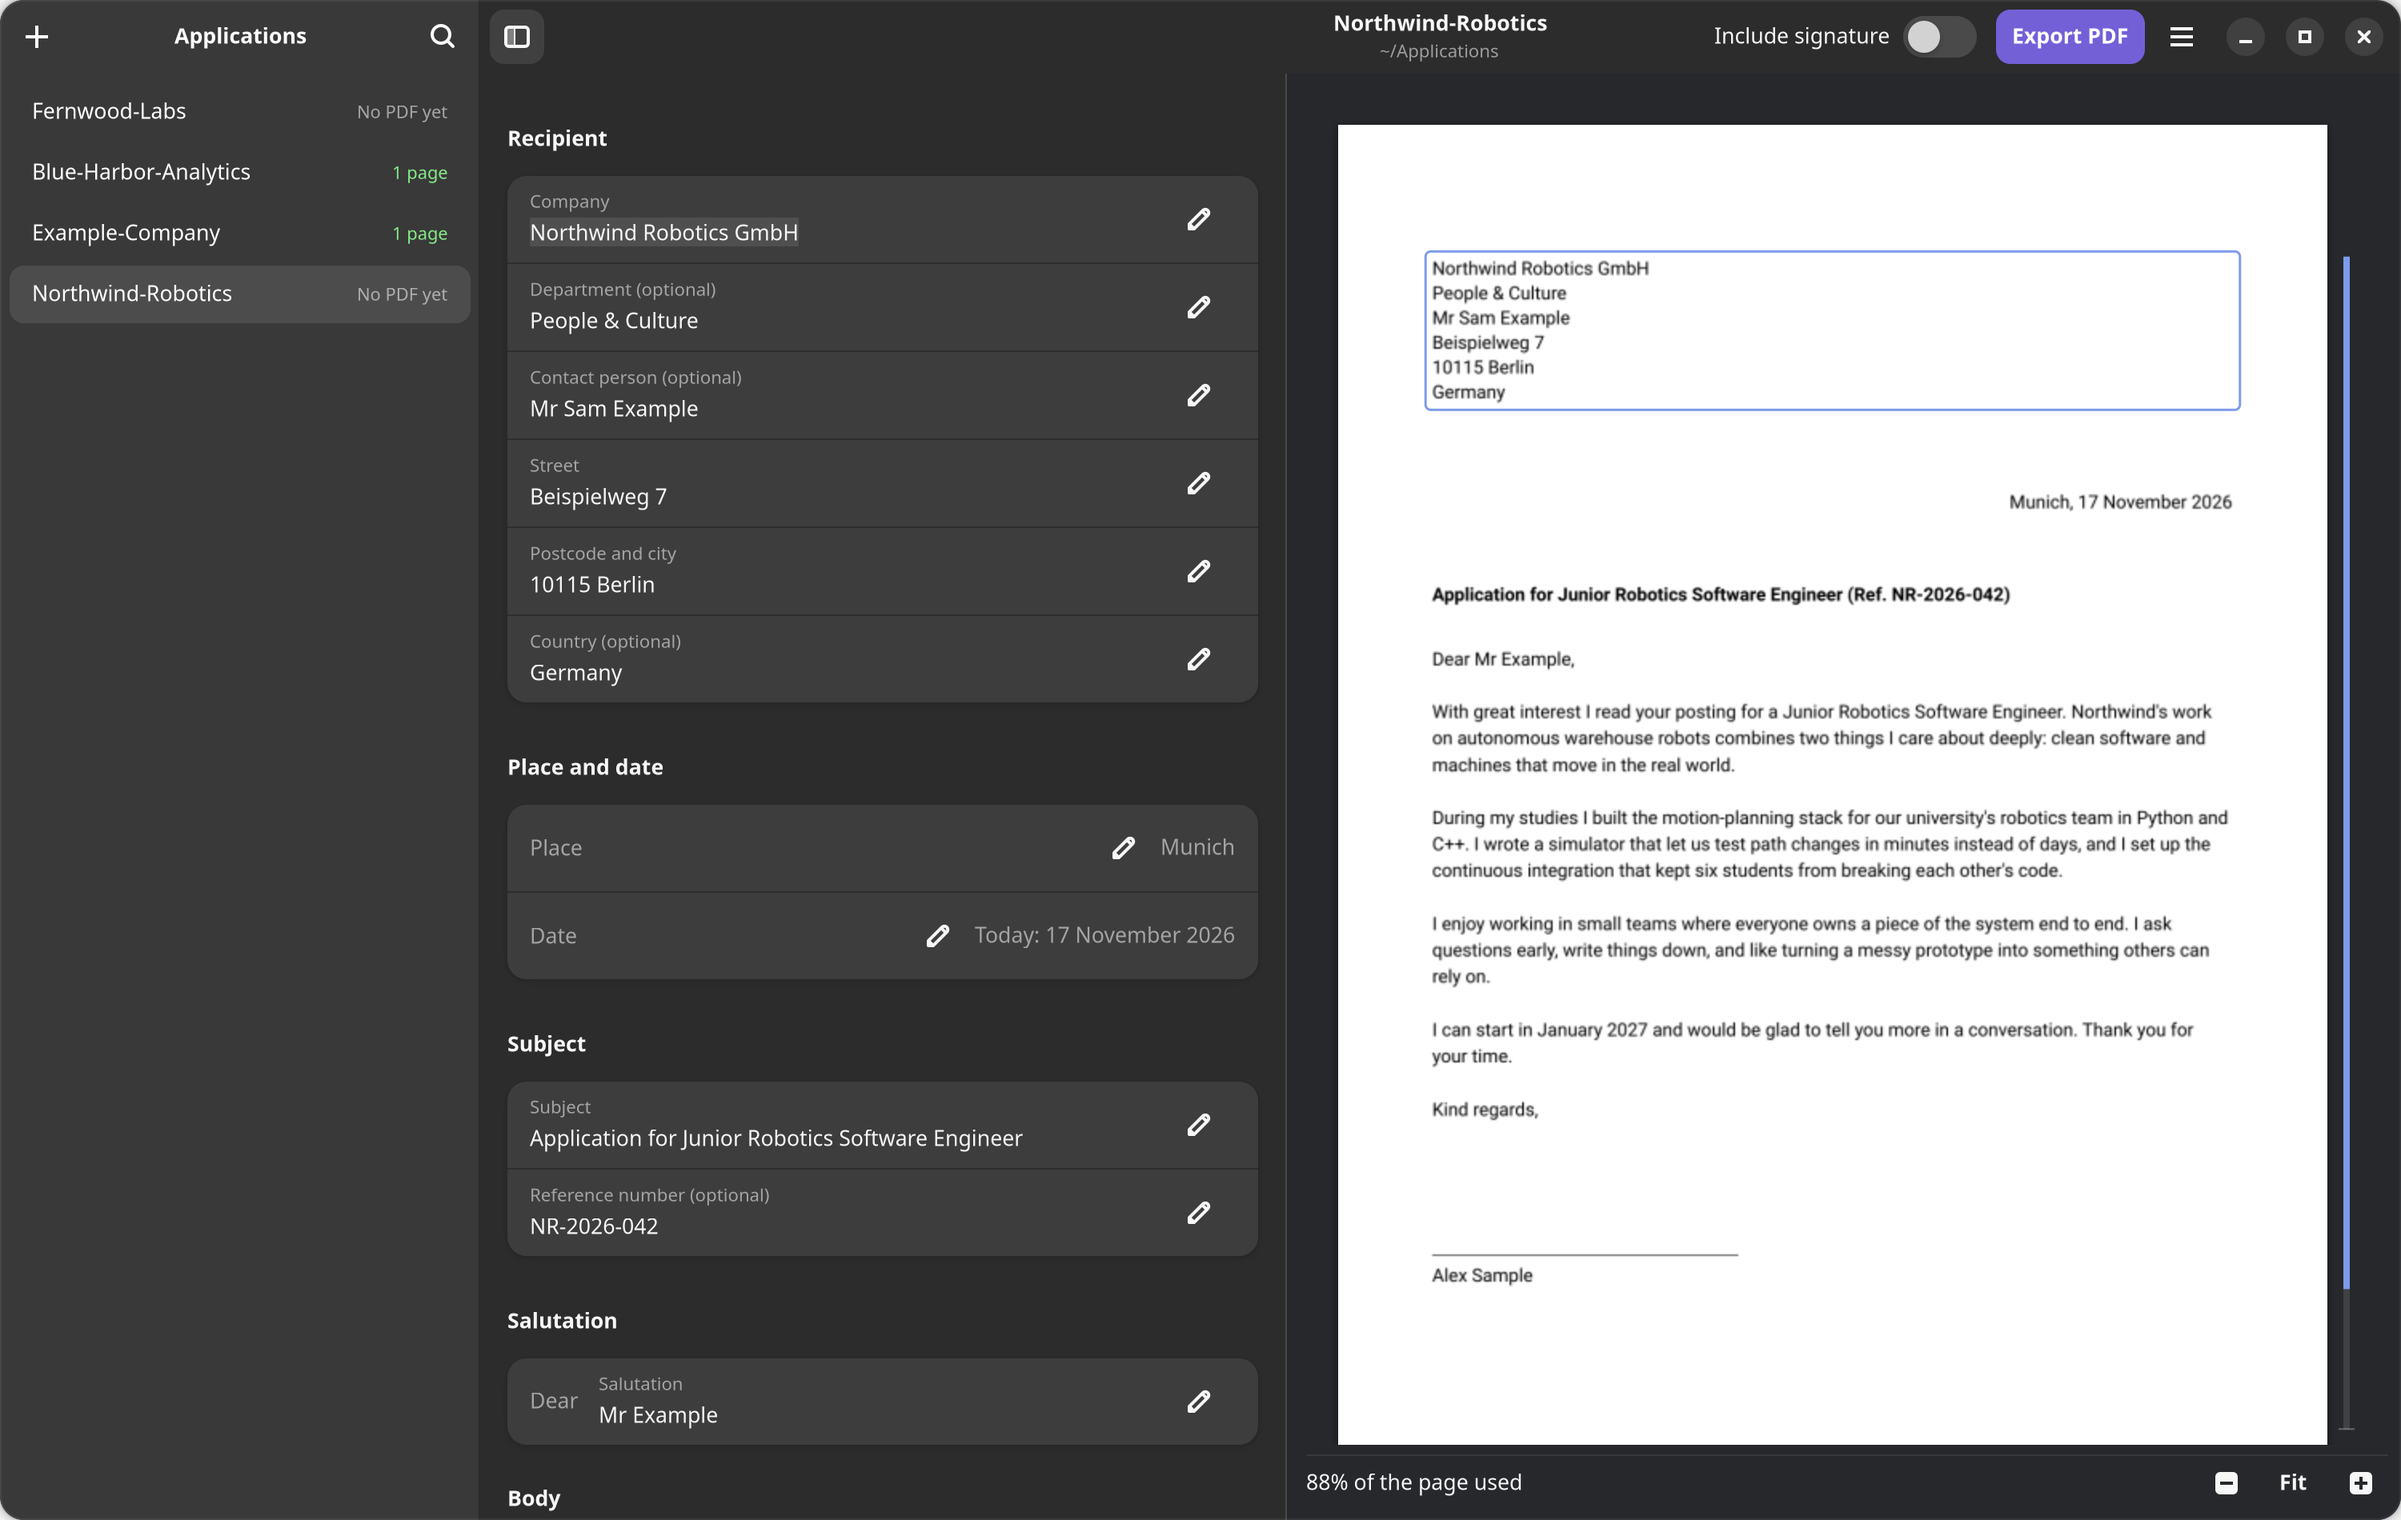
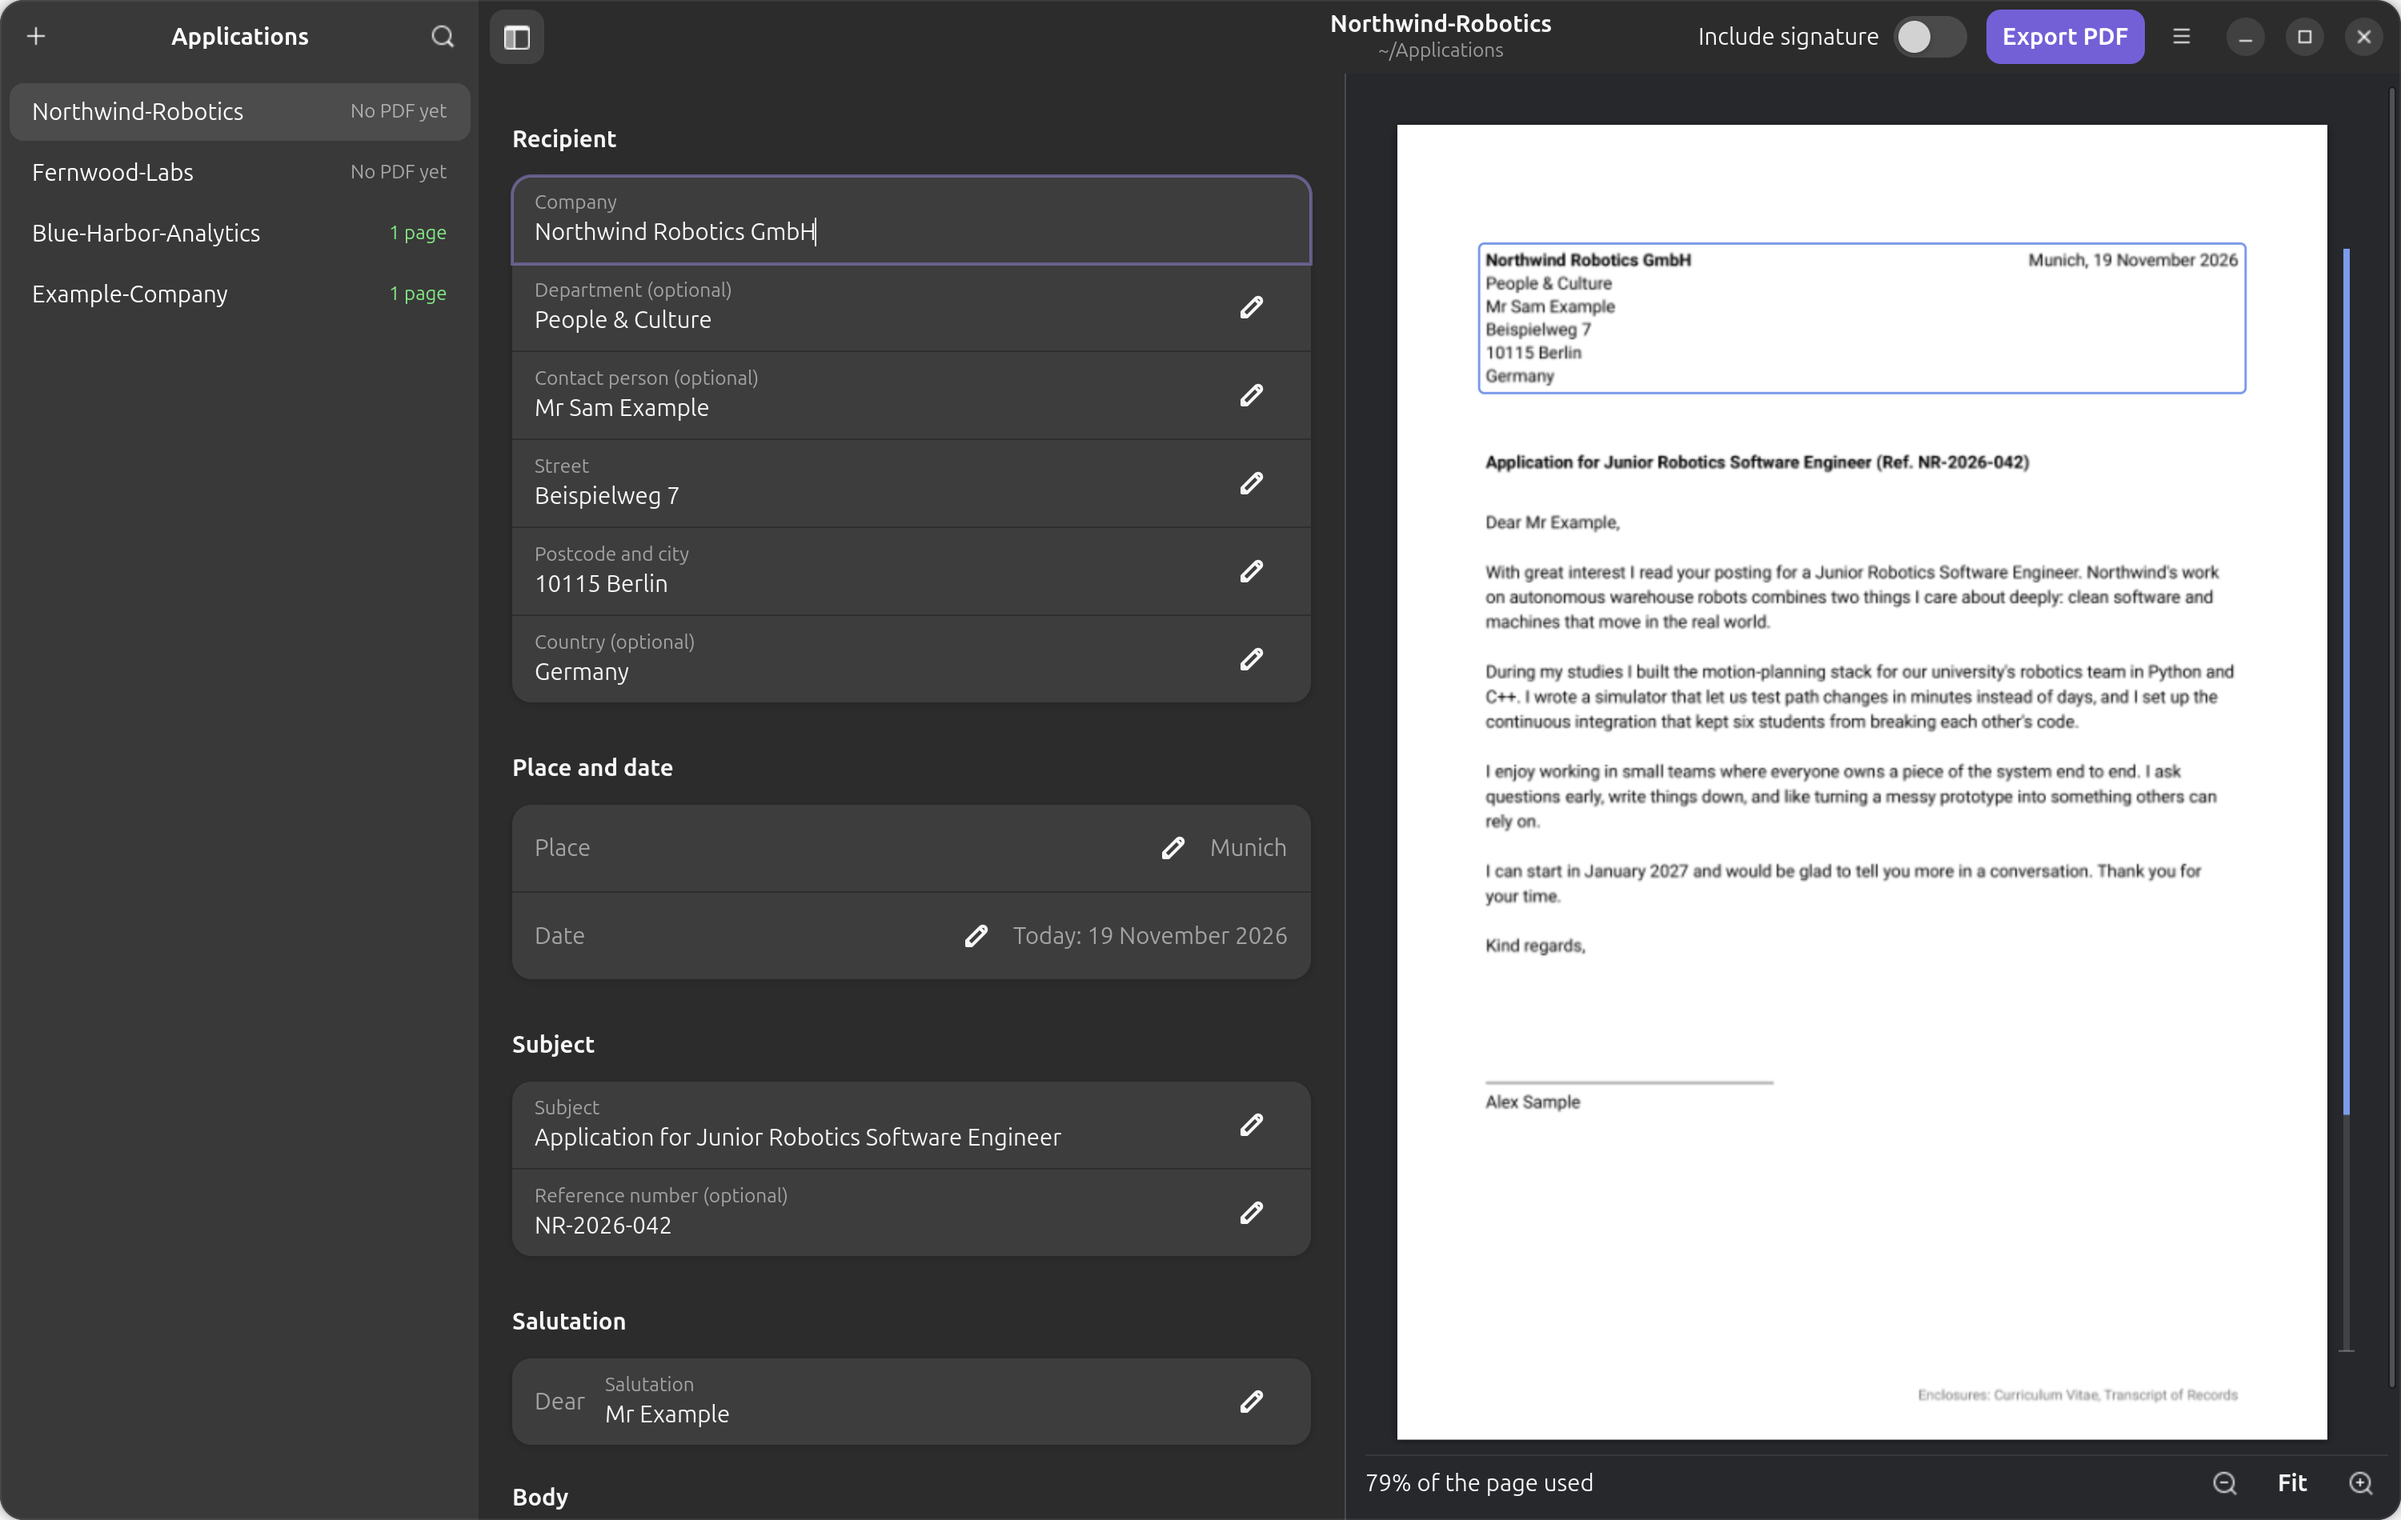
Rewrite README for easy setup and refresh screenshot
Add requirements (GNOME 49 / libadwaita 1.8+), a first-start walkthrough,
writing tips and shortcuts; drop the setup flow chart. Note that the CLI
needs the development venv. New screenshot shows the current layout
(place and date on the company line, bold company name).

diff --git a/README.md b/README.md
@@ -1,51 +1,84 @@
 # Letter of Motivation
 
-Write one-page A4 application letters and export them as PDF. Each application has its own folder
-(for example `~/Applications/ACME`) with a `letter.toml` holding that letter's text.
+A small GNOME app for writing one-page A4 application letters and exporting them as PDF.
+You type on the left and see the printed page on the right, updating as you go.
 
 ![The Letter of Motivation app: applications list, editor and live page preview](docs/screenshot.png)
 
-There are two ways to use it: a GNOME desktop app and a command-line tool. Both use the same template
-(`template/`) and the same rendering code (`lomgen/core.py`).
+- **One folder per application.** Each one (for example `~/Applications/ACME`) holds a plain-text
+  `letter.toml` with that letter's text, next to the exported PDF.
+- **Live page.** A bar along the page edge shows how full the page is and turns red when the letter
+  runs onto a second page. Click any part of the page to jump to its field.
+- **Saves as you type.** Comments you add to `letter.toml` by hand are kept.
+- **Your details once.** Name, default place and signature are set in Preferences and used in every
+  letter. Export with or without the signature.
+- **Command line too.** The same letters can be built from a terminal, with a live browser preview.
 
-## Setup in three steps
+## Requirements
 
-```mermaid
-flowchart LR
-    A["1 · Get the code<br/><code>git clone</code>"] --> B["2 · Install<br/><code>./install.sh</code>"]
-    B --> C["3 · Open the app<br/>from Activities"]
-    C -. "later, if you want" .-> D["Remove<br/><code>./uninstall.sh</code>"]
-```
+- Linux with GNOME 49 or newer (libadwaita 1.8+), e.g. Ubuntu 25.10+ or Fedora 43+
+- Python 3.11 or newer
+- `git`
 
-**1. Get the code**
+## Install
 
 ```sh
 git clone https://github.com/yannickbohrer/letter-of-motivation-editor.git
 cd letter-of-motivation-editor
-```
-
-**2. Install**
-
-```sh
 ./install.sh
 ```
 
-That's it. No sudo needed. If a system package is missing, the installer stops and prints the exact
-`sudo apt install …` line to run, then you run `./install.sh` again. (On Debian/Ubuntu these are
-`python3-gi gir1.2-gtk-4.0 gir1.2-adw-1 python3-venv poppler-utils`.)
+No sudo needed: everything goes into your home folder. If a system package is missing, the installer
+stops and prints the exact command to install it. Run that, then run `./install.sh` again.
 
-**3. Open it**
+<details>
+<summary>The system packages, if you want to install them up front</summary>
 
-Open **Letter of Motivation** from Activities, or run `letter-of-motivation [folder]` in a terminal.
-On first start, pick the folder that holds your applications, then set your name under Preferences.
+| Distribution  | Command |
+| ------------- | ------- |
+| Debian/Ubuntu | `sudo apt install python3-gi gir1.2-gtk-4.0 gir1.2-adw-1 python3-venv poppler-utils` |
+| Fedora        | `sudo dnf install python3-gobject gtk4 libadwaita poppler-utils` |
 
-| What you want  | Command                         |
-| -------------- | ------------------------------- |
-| Install        | `./install.sh`                  |
-| Update         | `git pull && ./install.sh`      |
-| Uninstall      | `./uninstall.sh`                |
+</details>
 
-`./uninstall.sh` removes the app, its launcher and menu entry. Your letters and your settings in
+## First start
+
+1. Open **Letter of Motivation** from Activities (or run `letter-of-motivation` in a terminal).
+2. Pick the folder that will hold your applications, e.g. `~/Applications`.
+3. Open **Preferences** (Ctrl+,) and enter your name, default place and the file-name suffix.
+   Add your signature as an SVG or a PNG with a transparent background if you want signed PDFs.
+4. Click **+** (Ctrl+N), type the company name, and start writing.
+5. Press **Export PDF** (Ctrl+E). The PDF lands in the application's folder as
+   `letter-of-motivation_<Company>_<your suffix>.pdf`.
+
+## Writing tips
+
+- In the body, a blank line starts a new paragraph. Put `*asterisks*` around words for italics.
+- Empty **Place** and **Date** fields use your default place and today's date.
+- Running out of room? Lower the **Font size** (9 to 13 pt) under Layout, or trim the text until
+  the page bar is no longer red.
+- **Include signature** in the header bar adds your signature image. Without it, the PDF name ends
+  in `_without-signature`, ready to sign by hand.
+- You can also edit `letter.toml` in any text editor; the app reloads it when you save.
+  [`example/letter.toml`](example/letter.toml) shows every field.
+
+| Shortcut | Action |
+| -------- | ------ |
+| Ctrl+N   | New application |
+| Ctrl+F   | Search applications |
+| Ctrl+E   | Export PDF |
+| Ctrl+O   | Choose applications folder |
+| Ctrl+,   | Preferences |
+| Ctrl+?   | All shortcuts |
+
+## Update and uninstall
+
+| What you want | Command |
+| ------------- | ------- |
+| Update        | `git pull && ./install.sh` |
+| Uninstall     | `./uninstall.sh` |
+
+Uninstalling removes the app, its launcher and menu entry. Your letters and your details in
 `~/.config/letter-of-motivation-editor/` stay.
 
 <details>
@@ -60,32 +93,19 @@ On first start, pick the folder that holds your applications, then set your name
 
 </details>
 
-## Desktop app
-
-- **Applications list**: one row per folder in your applications folder. Each row shows whether that
-  letter has been exported and how many pages it has.
-- **Editor**: the fields are in the same order as on the page. Changes save to `letter.toml` as you
-  type, and the comments in the file are kept.
-- **Page**: the page updates as you type. The bar on its right edge shows how much of the page the
-  letter fills, and turns red if the letter runs onto a second page. Click a part of the page to
-  jump to its field.
-
-### Your details
-
-Your name, default place, file-name suffix and signature are set under Preferences. They are stored
-in `~/.config/letter-of-motivation-editor/` (`sender.toml`, `signature.svg` or `.png`), and the CLI
-uses them too. If that folder doesn't exist, both fall back to `template/`.
-
 ## Command line
 
+Run from the repository folder. It needs the Python environment from [Development](#development)
+(one command, once).
+
 ```sh
-python3 create_letter-of-motivation.py <folder>            # PDF without signature
-python3 create_letter-of-motivation.py <folder> --signed   # with signature
-python3 create_letter-of-motivation.py <folder> --watch    # rebuild on save + browser preview
+python3 create_letter-of-motivation.py ~/Applications/ACME            # PDF without signature
+python3 create_letter-of-motivation.py ~/Applications/ACME --signed   # with signature
+python3 create_letter-of-motivation.py ~/Applications/ACME --watch    # rebuild on save, preview at http://127.0.0.1:8765
 ```
 
-The first run on a folder without `letter.toml` creates one from `template/letter.toml`.
-See [`example/letter.toml`](example/letter.toml) for a letter that uses every field.
+On a folder without `letter.toml`, the first run creates one for you to fill in. The CLI uses the
+same details and signature as the app.
 
 ## Development
 
@@ -95,6 +115,9 @@ Run straight from the repository without installing:
 python3 -m venv --system-site-packages .venv && .venv/bin/pip install -r requirements.txt
 .venv/bin/python -m lomgen
 ```
+
+The letter's look is in `template/` (`letter.html.j2`, `style.css`); the rendering code shared by the
+app and the CLI is `lomgen/core.py`. Developer docs are in [`CLAUDE.md`](CLAUDE.md) and [`docs/`](docs/).
 
 ## License
 
